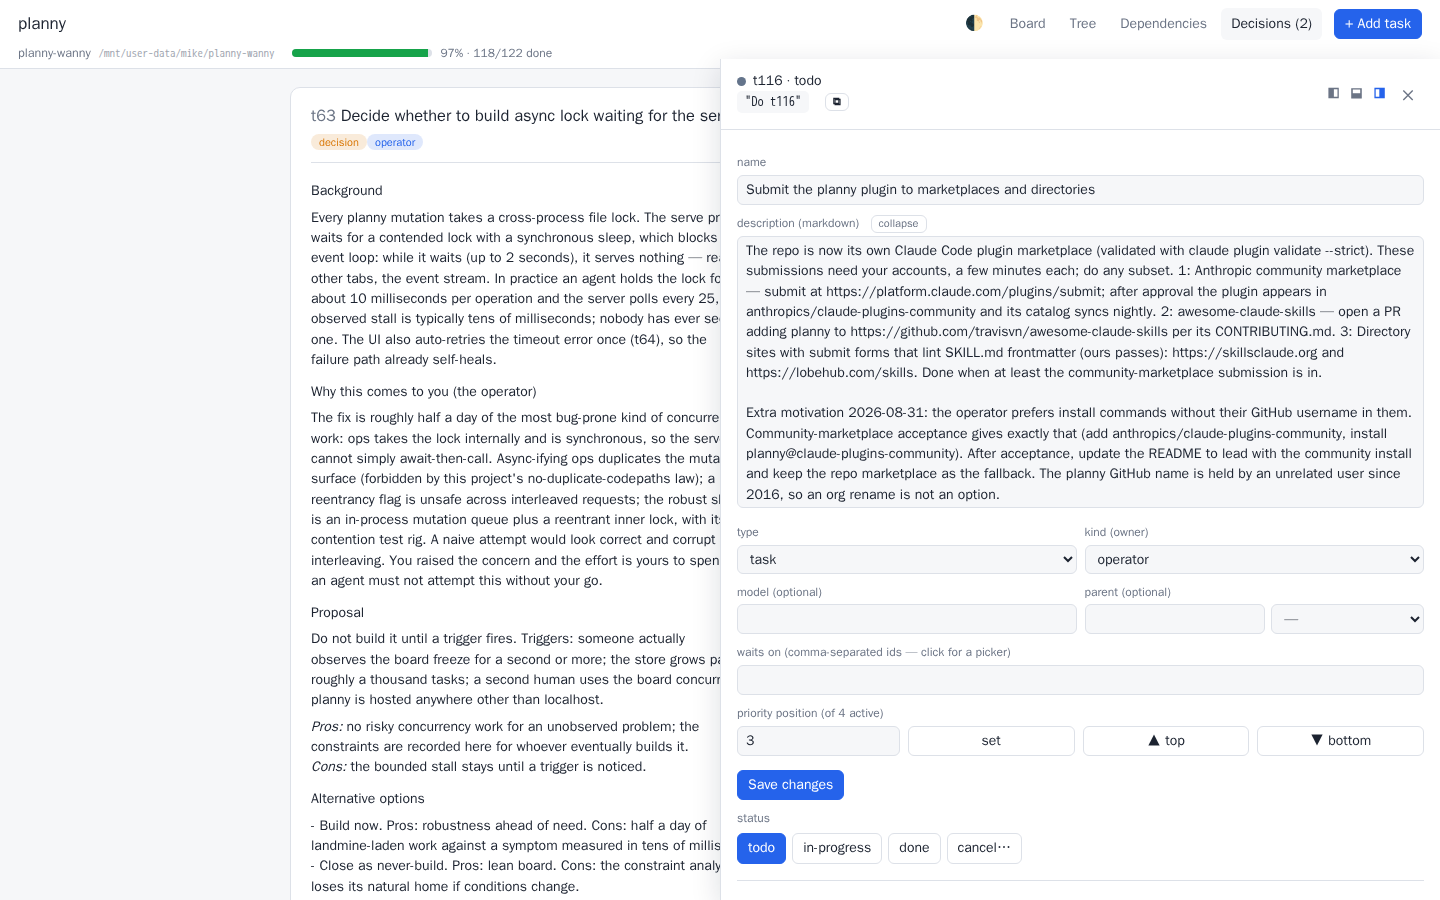
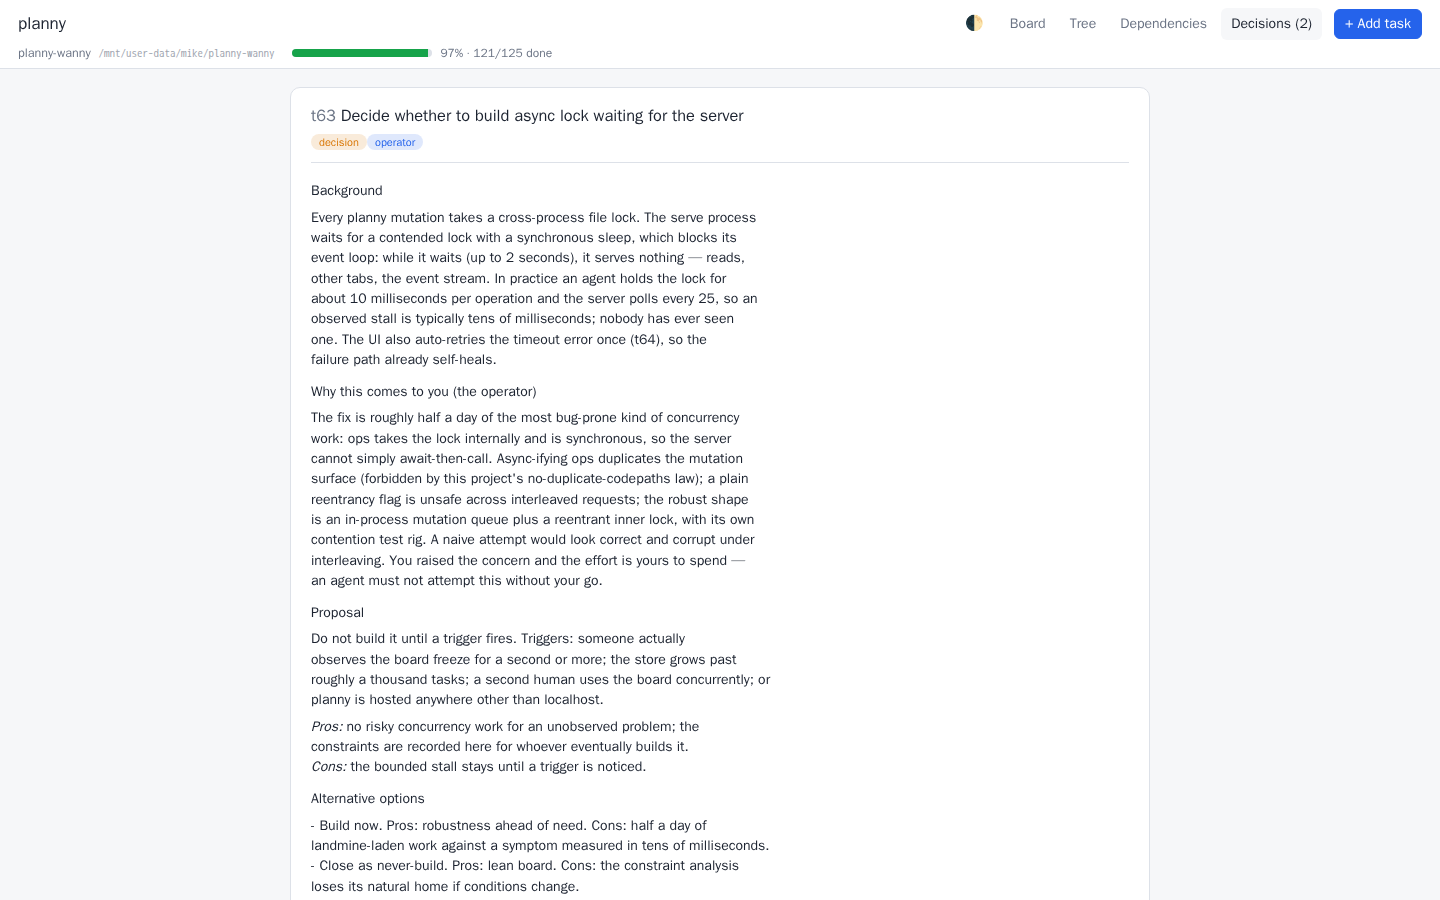
README: UI section rewritten for new users; four screenshots — board, tree (demo store), decisions, drawer (t126)
Claude-Session: https://claude.ai/code/session_01G75wbk7cxJgHXCGDBVyqTg

diff --git a/README.md b/README.md
@@ -53,23 +53,36 @@ instructions, and every command's `--help` teaches the rest.
 
 ## The localhost UI
 
-`planny serve` starts a site on 127.0.0.1 (pictured above) with four
-views: a kanban board (columns in priority order, global `#position` on
-active cards), a tree of parents and children with per-parent progress, a
-dependency graph with a switchable reading (`A blocks B` / `A is blocked
-by B` — labels, arrows and layout all flip), and the decision queue with
-respond / accept / skip. Filter chips slice every view by status, kind and
-type. The edit drawer covers every CLI action, docks to either side or the
-bottom, and resizes.
+The CLI is the main tool — it is what your agent uses. `planny serve`
+adds a localhost UI as a bonus for humans:
+
+- **Track what the AI is doing.** The board updates live as your agent
+  works — tasks change columns the moment their status changes.
+- **Add or edit tasks without interrupting your agent** (although you
+  can also just ask your agent).
+- **Read through and resolve the outstanding project decisions your
+  agent has asked you**, one at a time, in answering order (or, again,
+  just tell your agent your answers).
 
 ![The board — this screenshot is planny tracking its own development](https://raw.githubusercontent.com/iAmMichaelConnor/planny/main/docs/planny-board.png)
 
-![The decision queue, with the edit drawer docked on the right](https://raw.githubusercontent.com/iAmMichaelConnor/planny/main/docs/planny-decisions.png)
+![The tree view, on a small demo store — per-parent progress, holders, models, and waits-on links](https://raw.githubusercontent.com/iAmMichaelConnor/planny/main/docs/planny-tree.png)
 
-The server watches the store and pushes events to open tabs, so CLI edits
-appear without a reload; refreshes never clobber a half-typed form. One
-status colour code runs through every view. The UI is three static files
-(`web/`), no framework, no build step.
+![The decision queue](https://raw.githubusercontent.com/iAmMichaelConnor/planny/main/docs/planny-decisions.png)
+
+![The edit drawer, docked on the right](https://raw.githubusercontent.com/iAmMichaelConnor/planny/main/docs/planny-drawer.png)
+
+The detail, for the curious: four views — a kanban board (columns in
+priority order, global `#position` on active cards), a tree of parents
+and children with per-parent progress, a dependency graph with a
+switchable reading (`A blocks B` / `A is blocked by B` — labels, arrows
+and layout all flip), and the decision queue with respond / accept /
+skip. Filter chips slice every view by status, kind and type. The edit
+drawer covers every CLI action, docks to either side or the bottom, and
+resizes. The server watches the store and pushes events to open tabs, so
+CLI edits appear without a reload; refreshes never clobber a half-typed
+form. One status colour code runs through every view. The UI is three
+static files (`web/`), no framework, no build step.
 
 ## Quickstart
 

diff --git a/.planny/tasks/t126.md b/.planny/tasks/t126.md
@@ -1,0 +1,22 @@
+---
+id: t126
+name: "README: rewrite the UI section for new users"
+status: done
+type: task
+kind: ai
+priority: 178
+created: 2026-08-31T21:06:33.298Z
+updated: 2026-08-31T21:09:15.325Z
+created_by: claude-fable-session-01G75wbk
+history:
+  - at: 2026-08-31T21:06:33.337Z
+    status: in-progress
+    by: claude-fable-session-01G75wbk
+  - at: 2026-08-31T21:09:15.325Z
+    status: done
+    by: claude-fable-session-01G75wbk
+---
+
+Operator request with the framing supplied: the CLI is the main tool for agents; the localhost UI is a bonus for humans. Lead with the three headline uses — watch what the AI is doing; add or edit tasks without interrupting the agent (or just ask the agent); read through and resolve the outstanding decisions the agent queued (or ask the agent). Keep the screenshots and condense the existing view-by-view detail below the headlines.
+
+Grew mid-task: the decisions screenshot split from the drawer screenshot, and a tree view screenshot joined. The dogfood store is too flat to show hierarchy (one six-child subtree among ~115 flat tasks), so the tree shot uses a small staged demo store built from the Quickstart's importer storyline, captioned as a demo. Four images now sit in the UI section: board (real store), tree (demo), decisions (real), drawer (real).
